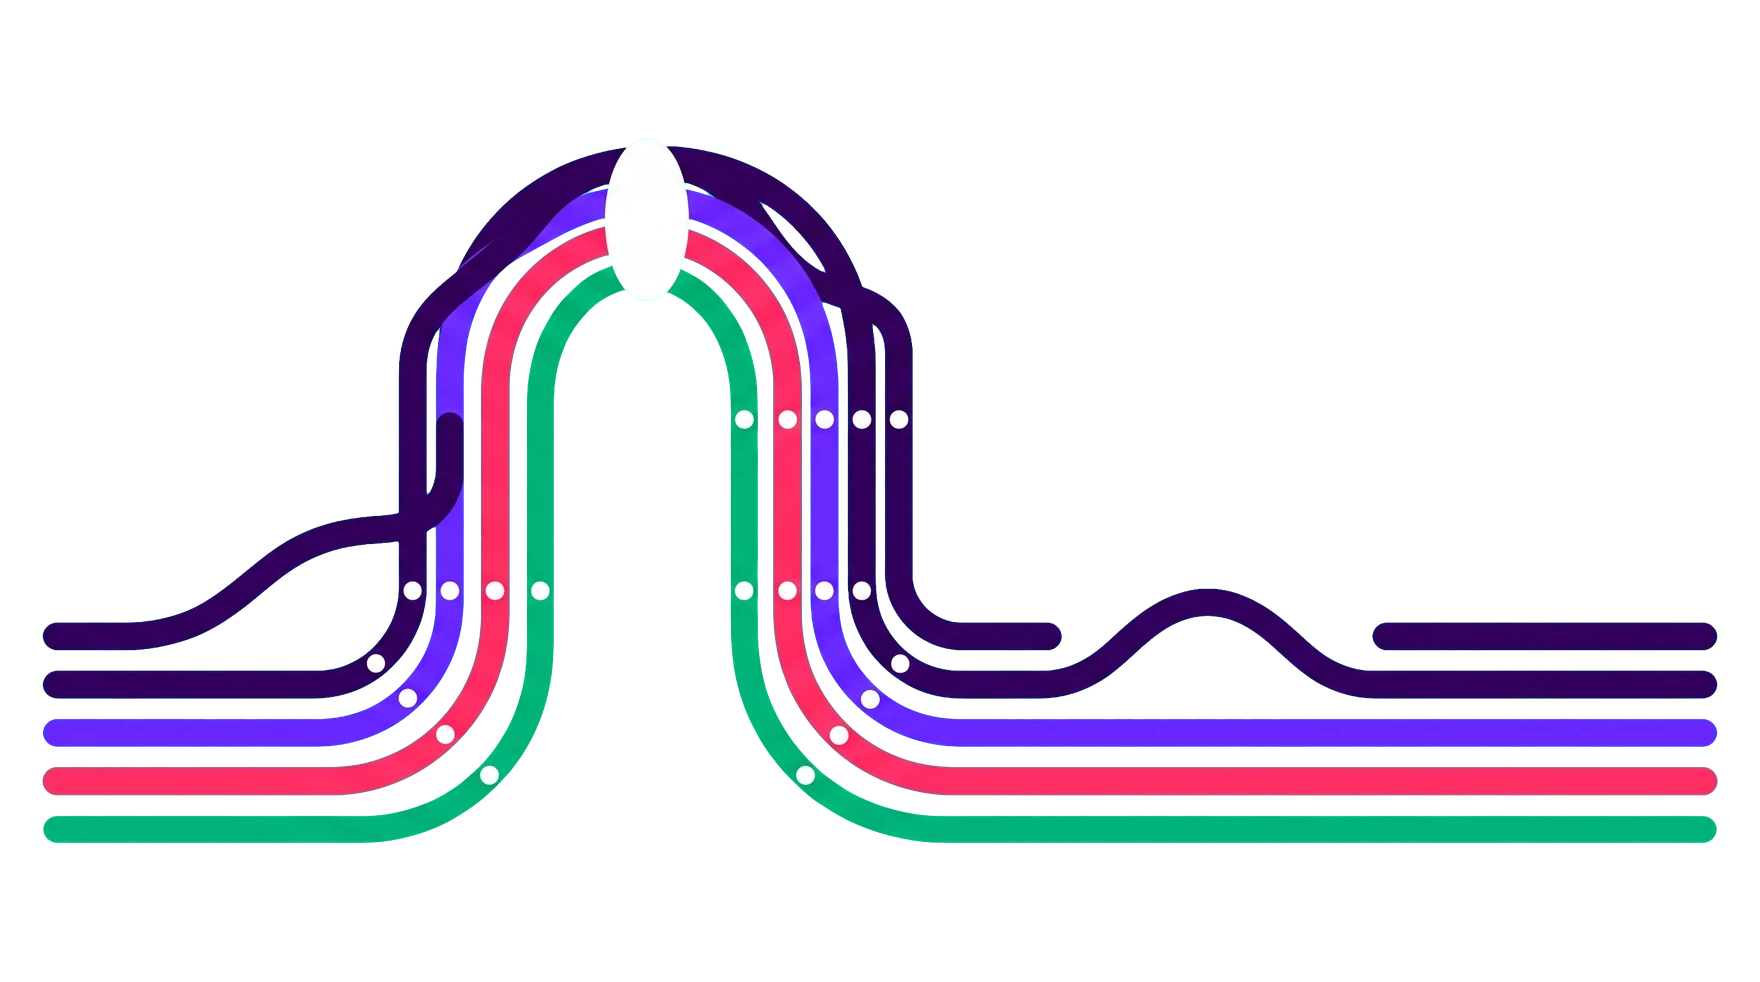
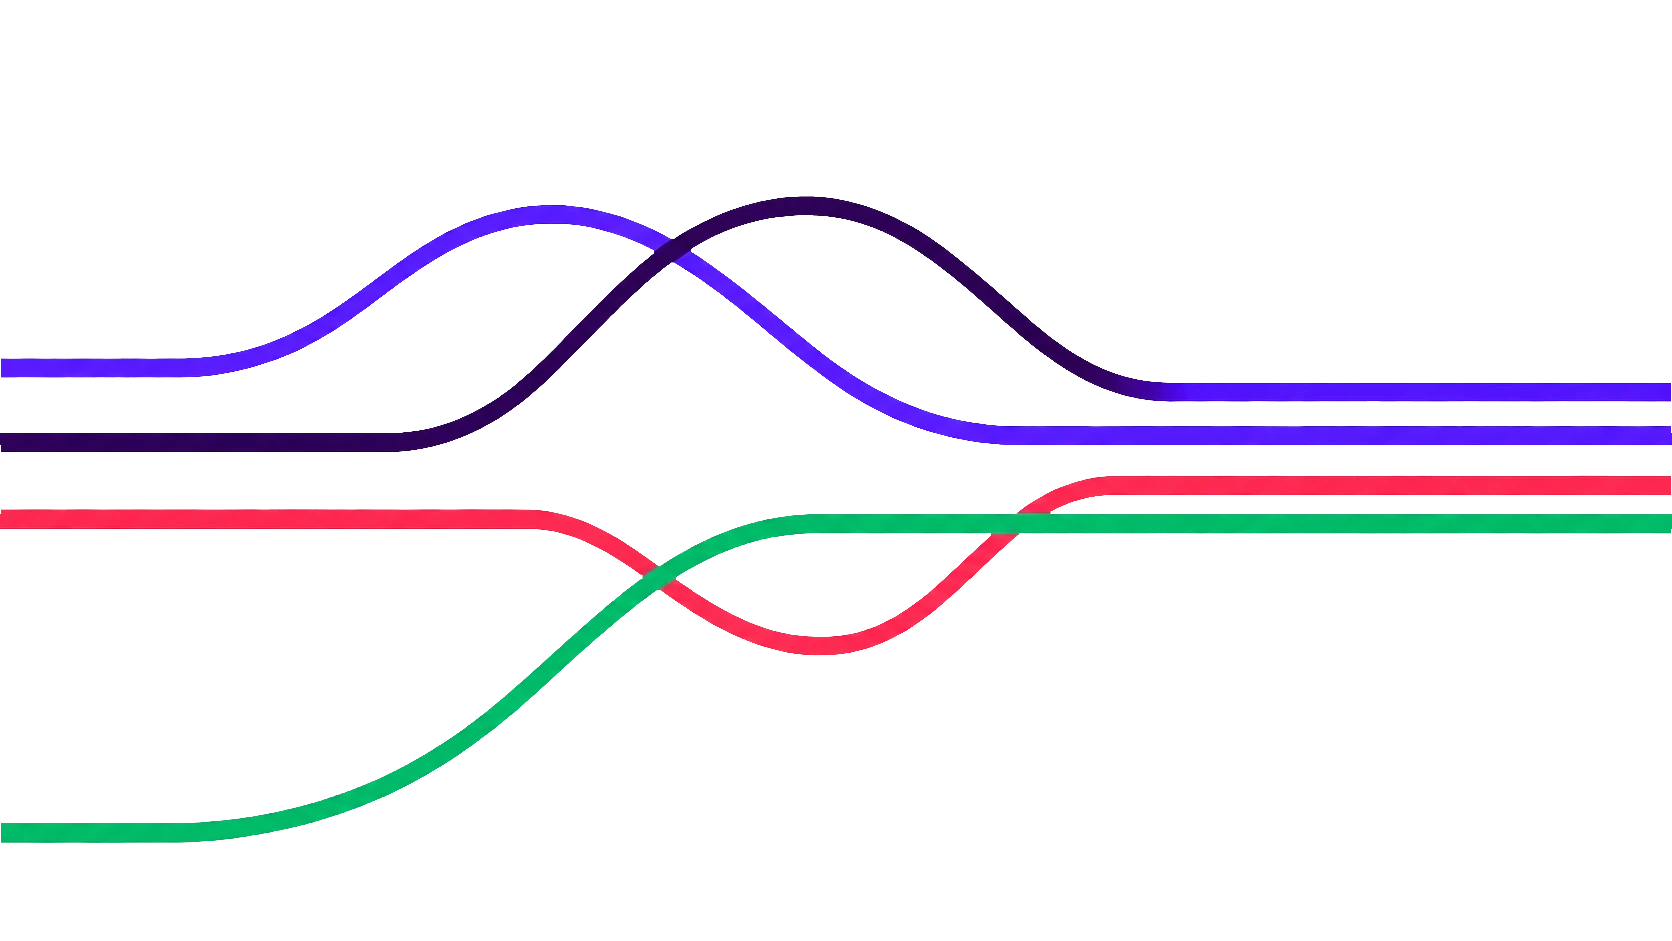
arreglos de líneas

Changed region(s): [[0.0, 0.1541, 1.0, 0.8937]]

diff --git a/site/ruta-capital.html b/site/ruta-capital.html
@@ -78,7 +78,7 @@
   <!-- Líneas full-bleed: de borde a borde (sin padding), por detrás del contenido -->
   <div class="hero__bg" aria-hidden="true"><img src="assets/photos/brand/hero-bg-capital.jpg" alt=""></div>
   <div class="hero__lines" aria-hidden="true">
-    <img src="assets/lines/lineas-hero-capital.webp?v=2" alt="" style="position:absolute;inset:0;width:100%;height:100%;object-fit:cover">
+    <img src="assets/lines/lineas-hero-capital.webp?v=3" alt="" style="position:absolute;inset:0;width:100%;height:100%;object-fit:cover">
   </div>
 
   <img class="hero__character" src="assets/photos/brand/hero-char-capital.webp" width="1856" height="2304" alt="Carpintero chileno en su taller de carpinteria">
@@ -98,9 +98,6 @@
 
 <!-- ============ DESCRIPCIÓN DEL EJE ============ -->
 <section class="section section--lines">
-  <div class="section__lines" aria-hidden="true">
-    <img src="assets/lines/lineas-sec-capital.webp?v=2" alt="" style="position:absolute;inset:0;width:100%;height:100%;object-fit:cover">
-  </div>
   <div class="container split">
     <div class="split__media reveal">
       <div class="photo-frame">

diff --git a/site/ruta-digitalizacion.html b/site/ruta-digitalizacion.html
@@ -98,9 +98,6 @@
 
 <!-- ============ DESCRIPCIÓN DEL EJE ============ -->
 <section class="section section--lines">
-  <div class="section__lines" aria-hidden="true">
-    <img src="assets/lines/lineas-sec-digitalizacion.webp?v=3" alt="" style="position:absolute;inset:0;width:100%;height:100%;object-fit:cover">
-  </div>
   <div class="container split">
     <div class="split__media reveal">
       <div class="photo-frame">

diff --git a/site/ruta-mercado.html b/site/ruta-mercado.html
@@ -98,9 +98,6 @@
 
 <!-- ============ DESCRIPCIÓN DEL EJE ============ -->
 <section class="section section--lines">
-  <div class="section__lines" aria-hidden="true">
-    <img src="assets/lines/lineas-sec-mercado.webp?v=2" alt="" style="position:absolute;inset:0;width:100%;height:100%;object-fit:cover">
-  </div>
   <div class="container split">
     <div class="split__media reveal">
       <div class="photo-frame">

diff --git a/site/ruta-talento.html b/site/ruta-talento.html
@@ -98,9 +98,6 @@
 
 <!-- ============ DESCRIPCIÓN DEL EJE ============ -->
 <section class="section section--lines">
-  <div class="section__lines" aria-hidden="true">
-    <img src="assets/lines/lineas-sec-talento.webp?v=2" alt="" style="position:absolute;inset:0;width:100%;height:100%;object-fit:cover">
-  </div>
   <div class="container split">
     <div class="split__media reveal">
       <div class="photo-frame">